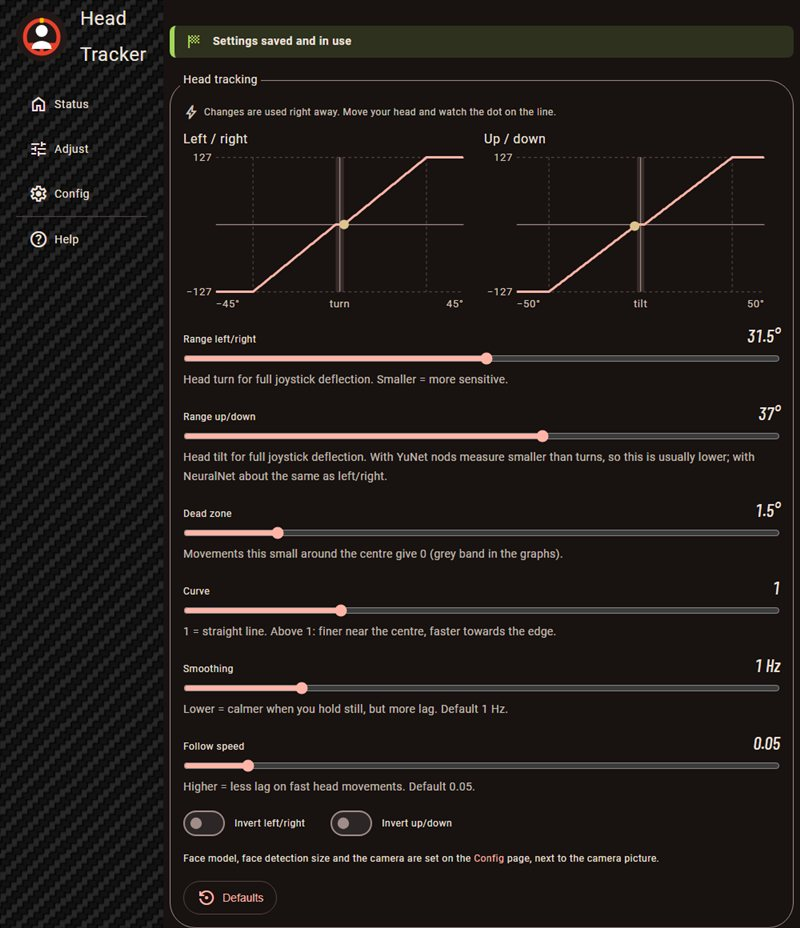
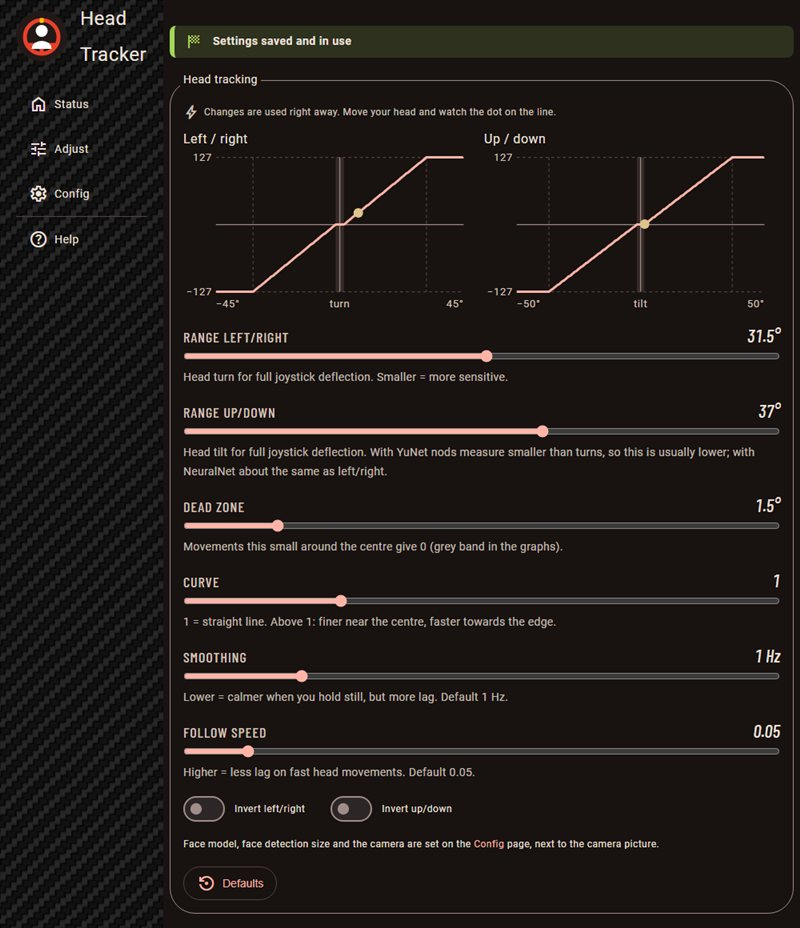
Web app: labels next to the readouts in the same typeface, upright capitals like a timing screen

Changed region(s): [[0.2188, 0.3438, 1.0, 1.0], [0.4062, 0.2188, 0.4688, 0.25], [0.7812, 0.2188, 0.8125, 0.25]]

diff --git a/templates/adjust.html b/templates/adjust.html
@@ -52,32 +52,32 @@
                 </div>
 
                 <div class="setting">
-                    <div class="head"><label for="track_range_x">Range left/right</label><span class="value readout" id="track_range_x_v"></span></div>
+                    <div class="head"><label class="readout-label" for="track_range_x">Range left/right</label><span class="value readout" id="track_range_x_v"></span></div>
                     <input type="range" id="track_range_x" name="track_range_x" min="2" max="60" step="0.5" value="{{track_range_x}}" />
                     <div class="help">Head turn for full joystick deflection. Smaller = more sensitive.</div>
                 </div>
                 <div class="setting">
-                    <div class="head"><label for="track_range_y">Range up/down</label><span class="value readout" id="track_range_y_v"></span></div>
+                    <div class="head"><label class="readout-label" for="track_range_y">Range up/down</label><span class="value readout" id="track_range_y_v"></span></div>
                     <input type="range" id="track_range_y" name="track_range_y" min="2" max="60" step="0.5" value="{{track_range_y}}" />
                     <div class="help">Head tilt for full joystick deflection. With YuNet nods measure smaller than turns, so this is usually lower; with NeuralNet about the same as left/right.</div>
                 </div>
                 <div class="setting">
-                    <div class="head"><label for="track_deadzone">Dead zone</label><span class="value readout" id="track_deadzone_v"></span></div>
+                    <div class="head"><label class="readout-label" for="track_deadzone">Dead zone</label><span class="value readout" id="track_deadzone_v"></span></div>
                     <input type="range" id="track_deadzone" name="track_deadzone" min="0" max="10" step="0.1" value="{{track_deadzone}}" />
                     <div class="help">Movements this small around the centre give 0 (grey band in the graphs).</div>
                 </div>
                 <div class="setting">
-                    <div class="head"><label for="track_curve">Curve</label><span class="value readout" id="track_curve_v"></span></div>
+                    <div class="head"><label class="readout-label" for="track_curve">Curve</label><span class="value readout" id="track_curve_v"></span></div>
                     <input type="range" id="track_curve" name="track_curve" min="0.3" max="3" step="0.1" value="{{track_curve}}" />
                     <div class="help">1 = straight line. Above 1: finer near the centre, faster towards the edge.</div>
                 </div>
                 <div class="setting">
-                    <div class="head"><label for="track_smoothing">Smoothing</label><span class="value readout" id="track_smoothing_v"></span></div>
+                    <div class="head"><label class="readout-label" for="track_smoothing">Smoothing</label><span class="value readout" id="track_smoothing_v"></span></div>
                     <input type="range" id="track_smoothing" name="track_smoothing" min="0.05" max="5" step="0.05" value="{{track_smoothing}}" />
                     <div class="help">Lower = calmer when you hold still, but more lag. Default 1 Hz.</div>
                 </div>
                 <div class="setting">
-                    <div class="head"><label for="track_speed">Follow speed</label><span class="value readout" id="track_speed_v"></span></div>
+                    <div class="head"><label class="readout-label" for="track_speed">Follow speed</label><span class="value readout" id="track_speed_v"></span></div>
                     <input type="range" id="track_speed" name="track_speed" min="0" max="0.5" step="0.01" value="{{track_speed}}" />
                     <div class="help">Higher = less lag on fast head movements. Default 0.05.</div>
                 </div>

diff --git a/templates/status.html b/templates/status.html
@@ -21,7 +21,7 @@
         }
         .values { width: auto; min-width: 260px; }
         .values td { padding: 4px 8px; }
-        .values td:first-child { padding-right: 16px; opacity: 0.8; }
+        .values td:first-child { padding-right: 16px; }
         .values td:last-child { text-align: right; font-size: 1.375rem; line-height: 1.75rem; }
         /* Phones: everything in the middle */
         @media (max-width: 600px) {
@@ -38,15 +38,15 @@
         <div class="status-grid">
             <div class="stick" title="Joystick position"><div class="dot" id="dot"></div></div>
             <table class="values">
-                <tr><td>Head turn (yaw)</td><td id="yaw" class="readout">–</td></tr>
-                <tr><td>Head tilt (pitch)</td><td id="pitch" class="readout">–</td></tr>
-                <tr><td>Joystick X</td><td id="x" class="readout">–</td></tr>
-                <tr><td>Joystick Y</td><td id="y" class="readout">–</td></tr>
-                <tr><td>Camera</td><td id="camera_fps" class="readout">–</td></tr>
-                <tr><td>Tracker</td><td id="fps" class="readout">–</td></tr>
-                <tr><td>Face model</td><td id="model">–</td></tr>
-                <tr><td>Processing</td><td id="processing" class="readout">–</td></tr>
-                <tr><td>Frame → joystick</td><td id="latency" class="readout">–</td></tr>
+                <tr><td class="readout-label">Head turn (yaw)</td><td id="yaw" class="readout">–</td></tr>
+                <tr><td class="readout-label">Head tilt (pitch)</td><td id="pitch" class="readout">–</td></tr>
+                <tr><td class="readout-label">Joystick X</td><td id="x" class="readout">–</td></tr>
+                <tr><td class="readout-label">Joystick Y</td><td id="y" class="readout">–</td></tr>
+                <tr><td class="readout-label">Camera</td><td id="camera_fps" class="readout">–</td></tr>
+                <tr><td class="readout-label">Tracker</td><td id="fps" class="readout">–</td></tr>
+                <tr><td class="readout-label">Face model</td><td id="model" class="readout upright">–</td></tr>
+                <tr><td class="readout-label">Processing</td><td id="processing" class="readout">–</td></tr>
+                <tr><td class="readout-label">Frame → joystick</td><td id="latency" class="readout">–</td></tr>
             </table>
         </div>
         <nav>

diff --git a/templates/head.html b/templates/head.html
@@ -9,6 +9,6 @@
     <!-- Barlow Condensed: brand typeface for the number readouts (Material 3 "display" role) -->
     <link rel="preconnect" href="https://fonts.googleapis.com">
     <link rel="preconnect" href="https://fonts.gstatic.com" crossorigin>
-    <link href="https://fonts.googleapis.com/css2?family=Barlow+Condensed:ital,wght@1,500&display=swap" rel="stylesheet">
+    <link href="https://fonts.googleapis.com/css2?family=Barlow+Condensed:ital,wght@0,500;1,500&display=swap" rel="stylesheet">
     <link rel="icon" href="/static/logo.svg" type="image/svg+xml">
     <link href="/static/colors.css" rel="stylesheet">

diff --git a/static/colors.css b/static/colors.css
@@ -139,3 +139,16 @@ input[type=range] { accent-color: var(--primary); }
     font-variant-numeric: tabular-nums;
     letter-spacing: 0;
 }
+.readout.upright { font-style: normal; }
+
+/* Labels next to the readouts: same typeface, upright and in capitals, like
+   the labels on a timing screen (Material 3 "label" role, brand typeface) */
+.readout-label {
+    font-family: "Barlow Condensed", Roboto, sans-serif;
+    font-style: normal;
+    font-weight: 500;
+    font-size: 1.125rem;
+    text-transform: uppercase;
+    letter-spacing: 0.05em;
+    color: var(--on-surface-variant);
+}
